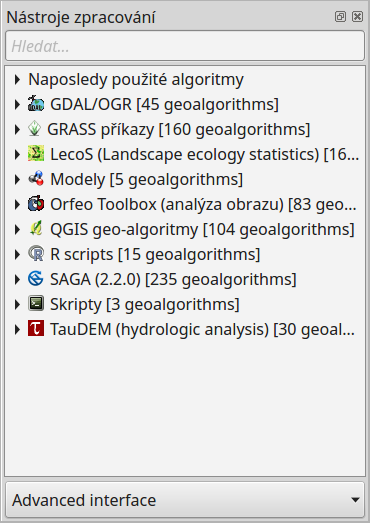
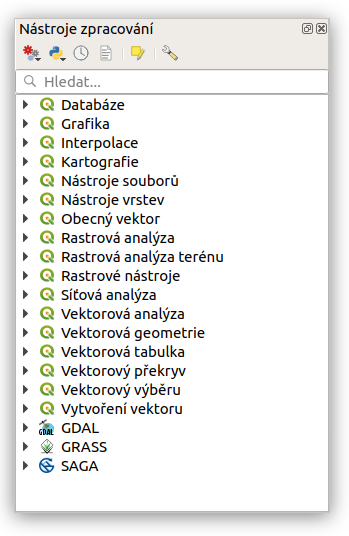
update:3_10 clean ico, new image

diff --git a/vektorova_data/prostorove_analyzy.rst b/vektorova_data/prostorove_analyzy.rst
@@ -1,8 +1,3 @@
-.. |checkbox| image:: ../images/icon/checkbox.png
-   :width: 1.5em
-.. |selectstring| image:: ../images/icon/selectstring.png
-   :width: 1.5em
-
 .. todo:: přidat u překryvných analýz obrázky prakticých příkladů 
    (i na bodech)
 
@@ -27,8 +22,7 @@ vektorových dat. Základní funkce nalezneme v hlavním menu
        :class: small
        :scale-latex: 40
        
-       Okno :item:`Nástroje zpracování` (Advanced interface - pokročilé 
-       zobrazení).
+       Okno :item:`Nástroje zpracování`.
 
 .. _buffer:
 
